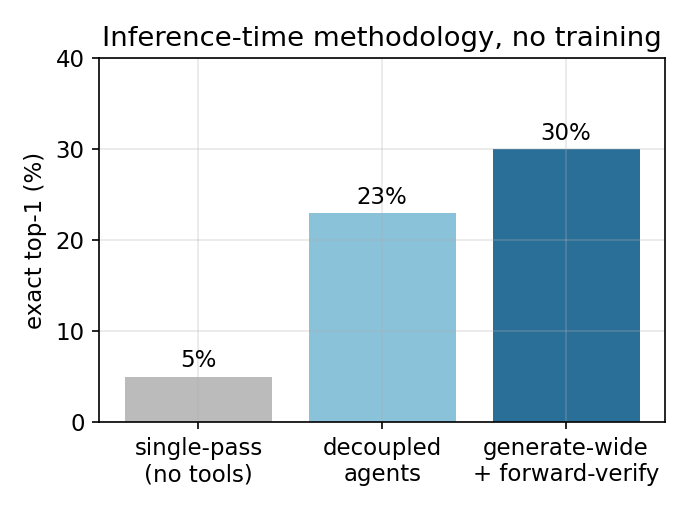
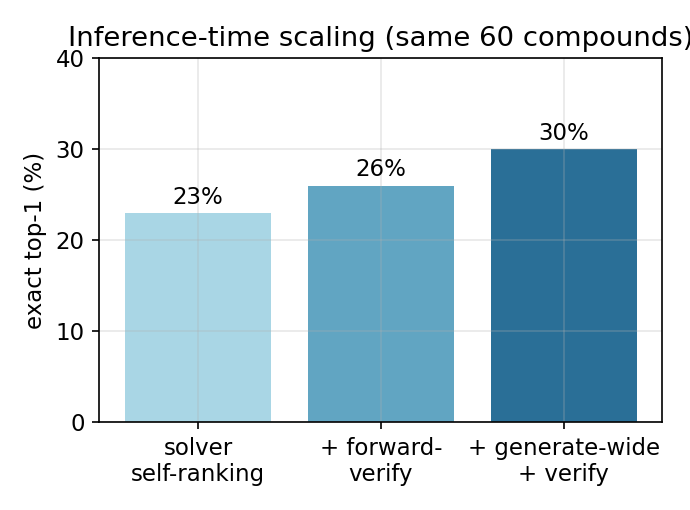
Fix Fig 8 ladder: apples-to-apples n=60 inference scaling (23/26/30)
The ladder previously chained the n=20 within-compound single-pass (5%) to the
n=60 decoupled result (23%), conflating two compound sets and overstating the
methodology jump. Redraw as a pure same-60-compounds ladder: solver self-ranking
23% -> +forward-verify 26% -> +generate-wide 30%. The 5%->15% within-compound
control remains its own result in §4.3. Caption updated in both the Figures list
and the PDF builder.

diff --git a/docs/paper.tex b/docs/paper.tex
@@ -919,8 +919,9 @@ scripted end-to-end.
   NMR-crystallography.
 \item
   \textbf{Fig. 8} (\texttt{docs/figures/fig3\_method.png}) ---
-  inference-time methodology ladder: single-pass → decoupled agents →
-  generate-wide + forward-verify (5\%→23\%→30\%).
+  forward-verification inference ladder on the same 60 compounds: solver
+  self-ranking → + forward-verify → + generate-wide (23\%/26\%/30\%
+  top-1).
 \end{itemize}
 
 \begin{center}\rule{0.5\linewidth}{0.5pt}\end{center}
@@ -1080,10 +1081,10 @@ NMR-crystallography.}
 
 \begin{figure}
 \centering
-\includegraphics[width=0.82\linewidth,height=\textheight,keepaspectratio,alt={Inference-time methodology ladder: single-pass \textbackslash to decoupled agents \textbackslash to generate-wide + forward-verify (5\%/23\%/30\%).}]{docs/figures/fig3_method.png}
-\caption{Inference-time methodology ladder: single-pass \(\to\)
-decoupled agents \(\to\) generate-wide + forward-verify
-(5\%/23\%/30\%).}
+\includegraphics[width=0.82\linewidth,height=\textheight,keepaspectratio,alt={Forward-verification inference ladder on the same 60 compounds: solver self-ranking \textbackslash to + forward-verify \textbackslash to + generate-wide (23\%/26\%/30\% top-1).}]{docs/figures/fig3_method.png}
+\caption{Forward-verification inference ladder on the same 60 compounds:
+solver self-ranking \(\to\) + forward-verify \(\to\) + generate-wide
+(23\%/26\%/30\% top-1).}
 \end{figure}
 
 \end{document}

diff --git a/scripts/make_figures.py b/scripts/make_figures.py
@@ -35,13 +35,14 @@ ax.set_xlabel("heavy atoms"); ax.set_ylabel("accuracy (%)"); ax.set_ylim(0,80); 
 ax.set_title("Accuracy falls with molecular size")
 plt.tight_layout(); plt.savefig("docs/figures/fig2_size.png",dpi=150); plt.close()
 
-# Fig 3: method ladder (from frozen prior results)
-labels=["single-pass\n(no tools)","decoupled\nagents","generate-wide\n+ forward-verify"]
-vals=[5,23,30]
+# Fig 3: forward-verification inference ladder, all on the SAME 60 compounds
+labels=["solver\nself-ranking","+ forward-\nverify","+ generate-wide\n+ verify"]
+vals=[23,26,30]
 fig,ax=plt.subplots(figsize=(4.6,3.4))
-ax.bar(labels,vals,color=["#bbb","#89c2d9","#2a6f97"])
+ax.bar(labels,vals,color=["#a9d6e5","#61a5c2","#2a6f97"])
 for i,v in enumerate(vals): ax.text(i,v+1,f"{v}%",ha="center")
-ax.set_ylabel("exact top-1 (%)"); ax.set_ylim(0,40); ax.set_title("Inference-time methodology, no training")
+ax.set_ylabel("exact top-1 (%)"); ax.set_ylim(0,40)
+ax.set_title("Inference-time scaling (same 60 compounds)")
 plt.tight_layout(); plt.savefig("docs/figures/fig3_method.png",dpi=150); plt.close()
 
 # Fig 4: IRexp dataset composition

diff --git a/scripts/build_pdf.py b/scripts/build_pdf.py
@@ -28,8 +28,9 @@ FIGS = [
     ("fig_mechanism.png", "Forward-verification on a real benchmark regioisomer pair "
      "(picolinamide vs nicotinamide): forward-predicted $^{13}$C matches the true "
      "isomer (chamfer 0.42 vs 1.30 ppm) --- the LLM analog of NMR-crystallography."),
-    ("fig3_method.png", "Inference-time methodology ladder: single-pass $\\to$ "
-     "decoupled agents $\\to$ generate-wide + forward-verify (5\\%/23\\%/30\\%)."),
+    ("fig3_method.png", "Forward-verification inference ladder on the same 60 "
+     "compounds: solver self-ranking $\\to$ + forward-verify $\\to$ + generate-wide "
+     "(23\\%/26\\%/30\\% top-1)."),
 ]
 
 UNI = {

diff --git a/docs/PAPER.md b/docs/PAPER.md
@@ -617,8 +617,9 @@ scorer, and forward-verification harness are scripted end-to-end.
   benchmark regioisomer pair (picolinamide vs nicotinamide): forward-predicted ¹³C
   matches the true isomer (chamfer 0.42 vs 1.30 ppm), the LLM analog of
   NMR-crystallography.
-- **Fig. 8** (`docs/figures/fig3_method.png`) — inference-time methodology ladder:
-  single-pass → decoupled agents → generate-wide + forward-verify (5%→23%→30%).
+- **Fig. 8** (`docs/figures/fig3_method.png`) — forward-verification inference ladder
+  on the same 60 compounds: solver self-ranking → + forward-verify → + generate-wide
+  (23%/26%/30% top-1).
 
 ---
 
